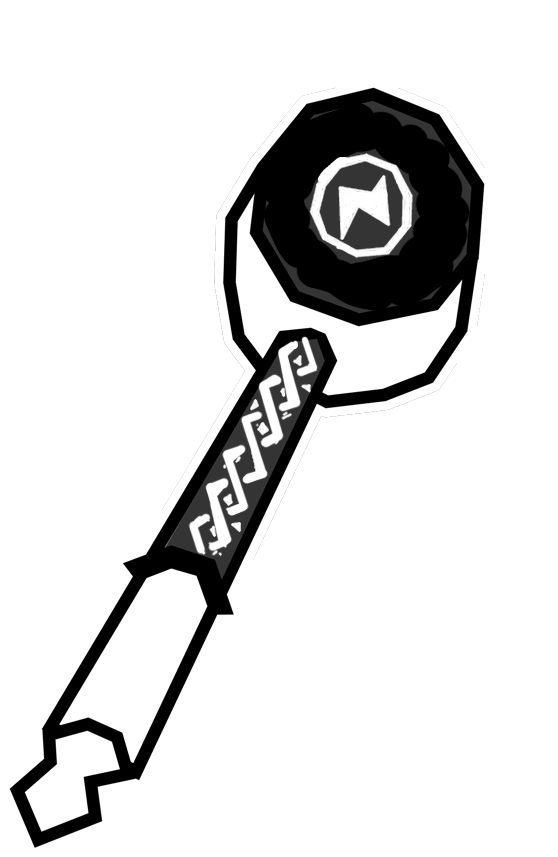
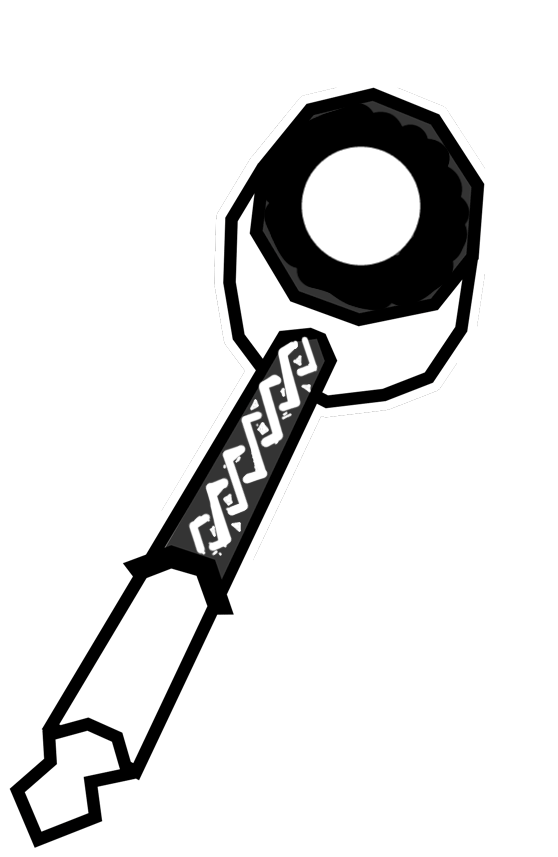
Rotate lvl2 progress to look centered
Adjust lvl2 progress mask

Changed region(s): [[0.5179, 0.1517, 0.7616, 0.3337]]

diff --git a/docs/style.css b/docs/style.css
@@ -71,7 +71,7 @@ body {
   height: 30%;
   width: 30%;
   left: 28%;
-  transform: rotate3d(0, 1, 0, 20deg) rotate3d(1, 0 , 0, 10deg);
+  transform: rotate3d(0, 0, 1, 30deg) rotate3d(0, 1, 0, 20deg) rotate3d(1, 0 , 0, 10deg);
 }
 .lvl2 {
   -webkit-mask-image: url("hammer-lvl2-mask.png");
